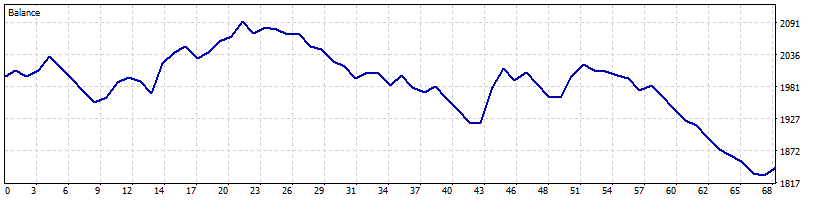
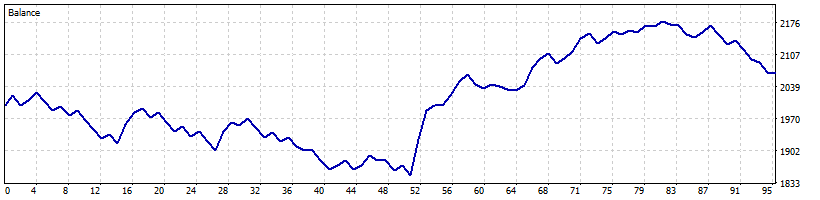
docs: refresh default real-tick report

diff --git a/reports/default-2026-real-ticks/index.html b/reports/default-2026-real-ticks/index.html
@@ -79,20 +79,20 @@ tbody tr:last-child th,tbody tr:last-child td{border-bottom:0}
 </style></head>
 <body>
 <header class="site-header"><div class="bar">
-<span class="brand">Nyao Scalper v45.0 <span class="tag">Backtest Report</span></span>
+<span class="brand">Nyao Scalper v46.0 <span class="tag">Backtest Report</span></span>
 <nav class="links" aria-label="Links"><a href="https://github.com/elrizwiraswara/nyao_scalper_mt5">GitHub &#8599;</a></nav>
 </div></header>
 <main>
 <div class="band spacer" aria-hidden="true"><div class="frame"></div></div>
-<section class="band"><div class="frame"><p class="section-title"><span class="slashes">//</span> Backtest Report</p><div class="intro"><h1>Default profile - XAUUSDm M1 vs M5, real ticks Jan-Sep 2026</h1><p class="lead"><b>Nyao Scalper v45.0</b> with <b>settings/default.set</b> on XAUUSDm M1, M5, real ticks, 2026-01 to 2026-09. Each month is a separate run starting from the same deposit.</p></div></div></section>
+<section class="band"><div class="frame"><p class="section-title"><span class="slashes">//</span> Backtest Report</p><div class="intro"><h1>Default profile - XAUUSDm M1 vs M5, real ticks Jan-Sep 2026</h1><p class="lead"><b>Nyao Scalper v46.0</b> with <b>settings/default.set</b> on XAUUSDm M1, M5, real ticks, 2026-01 to 2026-09. Each month is a separate run starting from the same deposit.</p></div></div></section>
 <div class="band spacer" aria-hidden="true"><div class="frame"></div></div>
-<section class="band"><div class="frame"><h2 class="section-title"><span class="slashes">//</span> Setup</h2><div class="cells setup"><div><span class="label">EA</span><span class="value">Nyao Scalper v45.0 (nyao_scalper.mq5)</span></div><div><span class="label">Settings</span><span class="value">settings/default.set</span></div><div><span class="label">Git commit</span><span class="value">51b4596</span></div><div><span class="label">Symbol / timeframes</span><span class="value">XAUUSDm / M1, M5</span></div><div><span class="label">Tick data</span><span class="value">Every tick based on real ticks</span></div><div><span class="label">Deposit / leverage</span><span class="value">2,000 USD / 1:500</span></div><div><span class="label">Runs</span><span class="value">One run per month, each starting from a fresh deposit</span></div><div><span class="label">Generated</span><span class="value">2026-10-13 11:12 with tools/backtest/nyao_backtest.py</span></div></div></div></section>
+<section class="band"><div class="frame"><h2 class="section-title"><span class="slashes">//</span> Setup</h2><div class="cells setup"><div><span class="label">EA</span><span class="value">Nyao Scalper v46.0 (nyao_scalper.mq5)</span></div><div><span class="label">Settings</span><span class="value">settings/default.set</span></div><div><span class="label">Git commit</span><span class="value">9f9a934</span></div><div><span class="label">Symbol / timeframes</span><span class="value">XAUUSDm / M1, M5</span></div><div><span class="label">Tick data</span><span class="value">Every tick based on real ticks</span></div><div><span class="label">Deposit / leverage</span><span class="value">2,000 USD / 1:500</span></div><div><span class="label">Runs</span><span class="value">One run per month, each starting from a fresh deposit</span></div><div><span class="label">Generated</span><span class="value">2026-10-14 03:28 with tools/backtest/nyao_backtest.py</span></div></div></div></section>
 <div class="band spacer" aria-hidden="true"><div class="frame"></div></div>
-<section class="band"><div class="frame"><h2 class="section-title"><span class="slashes">//</span> Summary</h2><div class="cells summary"><div><span class="tag">M1</span><span class="big pos">+7.5%</span><span class="muted">Total return (sum of runs)</span><dl class="metrics"><div><dt>Profitable runs</dt><dd>5 / 9</dd></div><div><dt>Best / worst run</dt><dd>+24.0% / -17.3%</dd></div><div><dt>Max drawdown</dt><dd>34.1%</dd></div><div><dt>Profit factor</dt><dd>1.01</dd></div><div><dt>Trades</dt><dd>1,555</dd></div><div><dt>Win rate</dt><dd>42%</dd></div><div><dt>Avg win / loss</dt><dd>$20.15 / -$14.58</dd></div><div><dt>Tick data</dt><dd>100% real ticks</dd></div></dl></div><div><span class="tag">M5</span><span class="big pos">+51.4%</span><span class="muted">Total return (sum of runs)</span><dl class="metrics"><div><dt>Profitable runs</dt><dd>5 / 9</dd></div><div><dt>Best / worst run</dt><dd>+34.1% / -7.8%</dd></div><div><dt>Max drawdown</dt><dd>20.3%</dd></div><div><dt>Profit factor</dt><dd>1.16</dd></div><div><dt>Trades</dt><dd>784</dd></div><div><dt>Win rate</dt><dd>43%</dd></div><div><dt>Avg win / loss</dt><dd>$21.84 / -$14.08</dd></div><div><dt>Tick data</dt><dd>100% real ticks</dd></div></dl></div></div></div></section>
+<section class="band"><div class="frame"><h2 class="section-title"><span class="slashes">//</span> Summary</h2><div class="cells summary"><div><span class="tag">M1</span><span class="big pos">+16.1%</span><span class="muted">Total return (sum of runs)</span><dl class="metrics"><div><dt>Profitable runs</dt><dd>3 / 9</dd></div><div><dt>Best / worst run</dt><dd>+37.6% / -21.3%</dd></div><div><dt>Max drawdown</dt><dd>35.3%</dd></div><div><dt>Profit factor</dt><dd>1.03</dd></div><div><dt>Trades</dt><dd>1,393</dd></div><div><dt>Win rate</dt><dd>41%</dd></div><div><dt>Avg win / loss</dt><dd>$21.32 / -$14.37</dd></div><div><dt>Tick data</dt><dd>100% real ticks</dd></div></dl></div><div><span class="tag">M5</span><span class="big pos">+82.6%</span><span class="muted">Total return (sum of runs)</span><dl class="metrics"><div><dt>Profitable runs</dt><dd>6 / 9</dd></div><div><dt>Best / worst run</dt><dd>+39.5% / -3.7%</dd></div><div><dt>Max drawdown</dt><dd>20.0%</dd></div><div><dt>Profit factor</dt><dd>1.20</dd></div><div><dt>Trades</dt><dd>1,107</dd></div><div><dt>Win rate</dt><dd>44%</dd></div><div><dt>Avg win / loss</dt><dd>$20.73 / -$13.62</dd></div><div><dt>Tick data</dt><dd>100% real ticks</dd></div></dl></div></div></div></section>
 <div class="band spacer" aria-hidden="true"><div class="frame"></div></div>
-<section class="band"><div class="frame"><h2 class="section-title"><span class="slashes">//</span> Results per Run</h2><div class="table-wrap"><table><thead><tr><th>Run</th><th>M1</th><th>M5</th></tr></thead><tbody><tr><th>2026-01</th><td><span class="ret pos">+24.0%</span><span class="sub">DD 12% · 180 trades</span></td><td><span class="ret pos">+34.1%</span><span class="sub">DD 6% · 109 trades</span></td></tr><tr><th>2026-02</th><td><span class="ret neg">-17.3%</span><span class="sub">DD 34% · 226 trades</span></td><td><span class="ret neg">-6.9%</span><span class="sub">DD 20% · 97 trades</span></td></tr><tr><th>2026-03</th><td><span class="ret pos">+2.0%</span><span class="sub">DD 21% · 281 trades</span></td><td><span class="ret pos">+9.5%</span><span class="sub">DD 14% · 114 trades</span></td></tr><tr><th>2026-04</th><td><span class="ret neg">-16.1%</span><span class="sub">DD 26% · 184 trades</span></td><td><span class="ret neg">-4.8%</span><span class="sub">DD 14% · 77 trades</span></td></tr><tr><th>2026-05</th><td><span class="ret pos">+8.6%</span><span class="sub">DD 13% · 127 trades</span></td><td><span class="ret pos">+8.7%</span><span class="sub">DD 7% · 75 trades</span></td></tr><tr><th>2026-06</th><td><span class="ret pos">+19.2%</span><span class="sub">DD 17% · 188 trades</span></td><td><span class="ret pos">+13.2%</span><span class="sub">DD 12% · 116 trades</span></td></tr><tr><th>2026-07</th><td><span class="ret neg">-3.8%</span><span class="sub">DD 15% · 124 trades</span></td><td><span class="ret pos">+9.5%</span><span class="sub">DD 6% · 74 trades</span></td></tr><tr><th>2026-08</th><td><span class="ret pos">+0.5%</span><span class="sub">DD 13% · 137 trades</span></td><td><span class="ret neg">-7.8%</span><span class="sub">DD 15% · 68 trades</span></td></tr><tr><th>2026-09</th><td><span class="ret neg">-9.5%</span><span class="sub">DD 21% · 108 trades</span></td><td><span class="ret neg">-4.0%</span><span class="sub">DD 11% · 54 trades</span></td></tr></tbody></table></div></div></section>
+<section class="band"><div class="frame"><h2 class="section-title"><span class="slashes">//</span> Results per Run</h2><div class="table-wrap"><table><thead><tr><th>Run</th><th>M1</th><th>M5</th></tr></thead><tbody><tr><th>2026-01</th><td><span class="ret pos">+37.6%</span><span class="sub">DD 8% · 172 trades</span></td><td><span class="ret pos">+39.5%</span><span class="sub">DD 9% · 165 trades</span></td></tr><tr><th>2026-02</th><td><span class="ret neg">-21.3%</span><span class="sub">DD 35% · 255 trades</span></td><td><span class="ret pos">+1.4%</span><span class="sub">DD 19% · 202 trades</span></td></tr><tr><th>2026-03</th><td><span class="ret pos">+9.6%</span><span class="sub">DD 17% · 280 trades</span></td><td><span class="ret pos">+9.9%</span><span class="sub">DD 19% · 198 trades</span></td></tr><tr><th>2026-04</th><td><span class="ret neg">-14.3%</span><span class="sub">DD 28% · 127 trades</span></td><td><span class="ret neg">-2.8%</span><span class="sub">DD 20% · 84 trades</span></td></tr><tr><th>2026-05</th><td><span class="ret neg">-6.3%</span><span class="sub">DD 17% · 111 trades</span></td><td><span class="ret pos">+1.5%</span><span class="sub">DD 13% · 89 trades</span></td></tr><tr><th>2026-06</th><td><span class="ret pos">+30.9%</span><span class="sub">DD 9% · 168 trades</span></td><td><span class="ret pos">+35.5%</span><span class="sub">DD 9% · 152 trades</span></td></tr><tr><th>2026-07</th><td><span class="ret neg">-4.5%</span><span class="sub">DD 17% · 93 trades</span></td><td><span class="ret neg">-3.7%</span><span class="sub">DD 10% · 66 trades</span></td></tr><tr><th>2026-08</th><td><span class="ret neg">-5.6%</span><span class="sub">DD 16% · 115 trades</span></td><td><span class="ret pos">+3.4%</span><span class="sub">DD 11% · 95 trades</span></td></tr><tr><th>2026-09</th><td><span class="ret neg">-9.8%</span><span class="sub">DD 18% · 72 trades</span></td><td><span class="ret neg">-2.2%</span><span class="sub">DD 12% · 56 trades</span></td></tr></tbody></table></div></div></section>
 <div class="band spacer" aria-hidden="true"><div class="frame"></div></div>
-<section class="band"><div class="frame"><h2 class="section-title"><span class="slashes">//</span> Balance Graphs</h2><h3 class="tf">M1</h3><div class="cells graphs"><figure><figcaption><b>2026-01</b><span class="pos">+24.0%</span><span class="faint">DD 12% · 180 trades</span></figcaption><img src="graphs/M1_2026-01.png" alt="M1 2026-01 balance graph" loading="lazy"></figure><figure><figcaption><b>2026-02</b><span class="neg">-17.3%</span><span class="faint">DD 34% · 226 trades</span></figcaption><img src="graphs/M1_2026-02.png" alt="M1 2026-02 balance graph" loading="lazy"></figure><figure><figcaption><b>2026-03</b><span class="pos">+2.0%</span><span class="faint">DD 21% · 281 trades</span></figcaption><img src="graphs/M1_2026-03.png" alt="M1 2026-03 balance graph" loading="lazy"></figure><figure><figcaption><b>2026-04</b><span class="neg">-16.1%</span><span class="faint">DD 26% · 184 trades</span></figcaption><img src="graphs/M1_2026-04.png" alt="M1 2026-04 balance graph" loading="lazy"></figure><figure><figcaption><b>2026-05</b><span class="pos">+8.6%</span><span class="faint">DD 13% · 127 trades</span></figcaption><img src="graphs/M1_2026-05.png" alt="M1 2026-05 balance graph" loading="lazy"></figure><figure><figcaption><b>2026-06</b><span class="pos">+19.2%</span><span class="faint">DD 17% · 188 trades</span></figcaption><img src="graphs/M1_2026-06.png" alt="M1 2026-06 balance graph" loading="lazy"></figure><figure><figcaption><b>2026-07</b><span class="neg">-3.8%</span><span class="faint">DD 15% · 124 trades</span></figcaption><img src="graphs/M1_2026-07.png" alt="M1 2026-07 balance graph" loading="lazy"></figure><figure><figcaption><b>2026-08</b><span class="pos">+0.5%</span><span class="faint">DD 13% · 137 trades</span></figcaption><img src="graphs/M1_2026-08.png" alt="M1 2026-08 balance graph" loading="lazy"></figure><figure><figcaption><b>2026-09</b><span class="neg">-9.5%</span><span class="faint">DD 21% · 108 trades</span></figcaption><img src="graphs/M1_2026-09.png" alt="M1 2026-09 balance graph" loading="lazy"></figure></div><h3 class="tf">M5</h3><div class="cells graphs"><figure><figcaption><b>2026-01</b><span class="pos">+34.1%</span><span class="faint">DD 6% · 109 trades</span></figcaption><img src="graphs/M5_2026-01.png" alt="M5 2026-01 balance graph" loading="lazy"></figure><figure><figcaption><b>2026-02</b><span class="neg">-6.9%</span><span class="faint">DD 20% · 97 trades</span></figcaption><img src="graphs/M5_2026-02.png" alt="M5 2026-02 balance graph" loading="lazy"></figure><figure><figcaption><b>2026-03</b><span class="pos">+9.5%</span><span class="faint">DD 14% · 114 trades</span></figcaption><img src="graphs/M5_2026-03.png" alt="M5 2026-03 balance graph" loading="lazy"></figure><figure><figcaption><b>2026-04</b><span class="neg">-4.8%</span><span class="faint">DD 14% · 77 trades</span></figcaption><img src="graphs/M5_2026-04.png" alt="M5 2026-04 balance graph" loading="lazy"></figure><figure><figcaption><b>2026-05</b><span class="pos">+8.7%</span><span class="faint">DD 7% · 75 trades</span></figcaption><img src="graphs/M5_2026-05.png" alt="M5 2026-05 balance graph" loading="lazy"></figure><figure><figcaption><b>2026-06</b><span class="pos">+13.2%</span><span class="faint">DD 12% · 116 trades</span></figcaption><img src="graphs/M5_2026-06.png" alt="M5 2026-06 balance graph" loading="lazy"></figure><figure><figcaption><b>2026-07</b><span class="pos">+9.5%</span><span class="faint">DD 6% · 74 trades</span></figcaption><img src="graphs/M5_2026-07.png" alt="M5 2026-07 balance graph" loading="lazy"></figure><figure><figcaption><b>2026-08</b><span class="neg">-7.8%</span><span class="faint">DD 15% · 68 trades</span></figcaption><img src="graphs/M5_2026-08.png" alt="M5 2026-08 balance graph" loading="lazy"></figure><figure><figcaption><b>2026-09</b><span class="neg">-4.0%</span><span class="faint">DD 11% · 54 trades</span></figcaption><img src="graphs/M5_2026-09.png" alt="M5 2026-09 balance graph" loading="lazy"></figure></div></div></section>
+<section class="band"><div class="frame"><h2 class="section-title"><span class="slashes">//</span> Balance Graphs</h2><h3 class="tf">M1</h3><div class="cells graphs"><figure><figcaption><b>2026-01</b><span class="pos">+37.6%</span><span class="faint">DD 8% · 172 trades</span></figcaption><img src="graphs/M1_2026-01.png" alt="M1 2026-01 balance graph" loading="lazy"></figure><figure><figcaption><b>2026-02</b><span class="neg">-21.3%</span><span class="faint">DD 35% · 255 trades</span></figcaption><img src="graphs/M1_2026-02.png" alt="M1 2026-02 balance graph" loading="lazy"></figure><figure><figcaption><b>2026-03</b><span class="pos">+9.6%</span><span class="faint">DD 17% · 280 trades</span></figcaption><img src="graphs/M1_2026-03.png" alt="M1 2026-03 balance graph" loading="lazy"></figure><figure><figcaption><b>2026-04</b><span class="neg">-14.3%</span><span class="faint">DD 28% · 127 trades</span></figcaption><img src="graphs/M1_2026-04.png" alt="M1 2026-04 balance graph" loading="lazy"></figure><figure><figcaption><b>2026-05</b><span class="neg">-6.3%</span><span class="faint">DD 17% · 111 trades</span></figcaption><img src="graphs/M1_2026-05.png" alt="M1 2026-05 balance graph" loading="lazy"></figure><figure><figcaption><b>2026-06</b><span class="pos">+30.9%</span><span class="faint">DD 9% · 168 trades</span></figcaption><img src="graphs/M1_2026-06.png" alt="M1 2026-06 balance graph" loading="lazy"></figure><figure><figcaption><b>2026-07</b><span class="neg">-4.5%</span><span class="faint">DD 17% · 93 trades</span></figcaption><img src="graphs/M1_2026-07.png" alt="M1 2026-07 balance graph" loading="lazy"></figure><figure><figcaption><b>2026-08</b><span class="neg">-5.6%</span><span class="faint">DD 16% · 115 trades</span></figcaption><img src="graphs/M1_2026-08.png" alt="M1 2026-08 balance graph" loading="lazy"></figure><figure><figcaption><b>2026-09</b><span class="neg">-9.8%</span><span class="faint">DD 18% · 72 trades</span></figcaption><img src="graphs/M1_2026-09.png" alt="M1 2026-09 balance graph" loading="lazy"></figure></div><h3 class="tf">M5</h3><div class="cells graphs"><figure><figcaption><b>2026-01</b><span class="pos">+39.5%</span><span class="faint">DD 9% · 165 trades</span></figcaption><img src="graphs/M5_2026-01.png" alt="M5 2026-01 balance graph" loading="lazy"></figure><figure><figcaption><b>2026-02</b><span class="pos">+1.4%</span><span class="faint">DD 19% · 202 trades</span></figcaption><img src="graphs/M5_2026-02.png" alt="M5 2026-02 balance graph" loading="lazy"></figure><figure><figcaption><b>2026-03</b><span class="pos">+9.9%</span><span class="faint">DD 19% · 198 trades</span></figcaption><img src="graphs/M5_2026-03.png" alt="M5 2026-03 balance graph" loading="lazy"></figure><figure><figcaption><b>2026-04</b><span class="neg">-2.8%</span><span class="faint">DD 20% · 84 trades</span></figcaption><img src="graphs/M5_2026-04.png" alt="M5 2026-04 balance graph" loading="lazy"></figure><figure><figcaption><b>2026-05</b><span class="pos">+1.5%</span><span class="faint">DD 13% · 89 trades</span></figcaption><img src="graphs/M5_2026-05.png" alt="M5 2026-05 balance graph" loading="lazy"></figure><figure><figcaption><b>2026-06</b><span class="pos">+35.5%</span><span class="faint">DD 9% · 152 trades</span></figcaption><img src="graphs/M5_2026-06.png" alt="M5 2026-06 balance graph" loading="lazy"></figure><figure><figcaption><b>2026-07</b><span class="neg">-3.7%</span><span class="faint">DD 10% · 66 trades</span></figcaption><img src="graphs/M5_2026-07.png" alt="M5 2026-07 balance graph" loading="lazy"></figure><figure><figcaption><b>2026-08</b><span class="pos">+3.4%</span><span class="faint">DD 11% · 95 trades</span></figcaption><img src="graphs/M5_2026-08.png" alt="M5 2026-08 balance graph" loading="lazy"></figure><figure><figcaption><b>2026-09</b><span class="neg">-2.2%</span><span class="faint">DD 12% · 56 trades</span></figcaption><img src="graphs/M5_2026-09.png" alt="M5 2026-09 balance graph" loading="lazy"></figure></div></div></section>
 <div class="band spacer" aria-hidden="true"><div class="frame"></div></div>
 <section class="band"><div class="frame"><h2 class="section-title"><span class="slashes">//</span> Notes</h2><div class="note"><p>Total return is the sum of the monthly returns: each month starts from the same deposit, so it is not compounded.</p><p>Backtests are not a guarantee of future results. Trading Forex and CFDs involves significant risk; forward-test on a demo account before using real money.</p></div></div></section>
 <div class="band spacer" aria-hidden="true"><div class="frame"></div></div>

diff --git a/reports/default-2026-real-ticks/summary.md b/reports/default-2026-real-ticks/summary.md
@@ -2,14 +2,14 @@
 
 | Setting | Value |
 |---|---|
-| EA | Nyao Scalper v45.0 (`nyao_scalper.mq5`) |
+| EA | Nyao Scalper v46.0 (`nyao_scalper.mq5`) |
 | Settings | `settings/default.set` |
-| Git commit | 51b4596 |
+| Git commit | 9f9a934 |
 | Symbol / timeframes | XAUUSDm / M1, M5 |
 | Tick data | Every tick based on real ticks |
 | Deposit / leverage | 2,000 USD / 1:500 |
 | Runs | One run per month, each starting from a fresh deposit |
-| Generated | 2026-10-13 11:12 with `tools/backtest/nyao_backtest.py` |
+| Generated | 2026-10-14 03:28 with `tools/backtest/nyao_backtest.py` |
 
 ## Summary
 
@@ -17,97 +17,97 @@ Total return is the sum of the monthly returns (each month starts from the same 
 
 | Timeframe | Total return | Profitable | Best / worst run | Max drawdown | Trades | Win rate | Avg win / loss | Profit factor | Tick data |
 |---|---|---|---|---|---|---|---|---|---|
-| M1 | +7.5% | 5/9 | +24.0% / -17.3% | 34.1% | 1,555 | 42% | $20.15 / -$14.58 | 1.01 | 100% real ticks |
-| M5 | +51.4% | 5/9 | +34.1% / -7.8% | 20.3% | 784 | 43% | $21.84 / -$14.08 | 1.16 | 100% real ticks |
+| M1 | +16.1% | 3/9 | +37.6% / -21.3% | 35.3% | 1,393 | 41% | $21.32 / -$14.37 | 1.03 | 100% real ticks |
+| M5 | +82.6% | 6/9 | +39.5% / -3.7% | 20.0% | 1,107 | 44% | $20.73 / -$13.62 | 1.20 | 100% real ticks |
 
 ## Results per run
 
 | Run | M1 | M5 |
 |---|---|---|
-| 2026-01 | +24.0% (DD 12%, 180 trades) | +34.1% (DD 6%, 109 trades) |
-| 2026-02 | -17.3% (DD 34%, 226 trades) | -6.9% (DD 20%, 97 trades) |
-| 2026-03 | +2.0% (DD 21%, 281 trades) | +9.5% (DD 14%, 114 trades) |
-| 2026-04 | -16.1% (DD 26%, 184 trades) | -4.8% (DD 14%, 77 trades) |
-| 2026-05 | +8.6% (DD 13%, 127 trades) | +8.7% (DD 7%, 75 trades) |
-| 2026-06 | +19.2% (DD 17%, 188 trades) | +13.2% (DD 12%, 116 trades) |
-| 2026-07 | -3.8% (DD 15%, 124 trades) | +9.5% (DD 6%, 74 trades) |
-| 2026-08 | +0.5% (DD 13%, 137 trades) | -7.8% (DD 15%, 68 trades) |
-| 2026-09 | -9.5% (DD 21%, 108 trades) | -4.0% (DD 11%, 54 trades) |
+| 2026-01 | +37.6% (DD 8%, 172 trades) | +39.5% (DD 9%, 165 trades) |
+| 2026-02 | -21.3% (DD 35%, 255 trades) | +1.4% (DD 19%, 202 trades) |
+| 2026-03 | +9.6% (DD 17%, 280 trades) | +9.9% (DD 19%, 198 trades) |
+| 2026-04 | -14.3% (DD 28%, 127 trades) | -2.8% (DD 20%, 84 trades) |
+| 2026-05 | -6.3% (DD 17%, 111 trades) | +1.5% (DD 13%, 89 trades) |
+| 2026-06 | +30.9% (DD 9%, 168 trades) | +35.5% (DD 9%, 152 trades) |
+| 2026-07 | -4.5% (DD 17%, 93 trades) | -3.7% (DD 10%, 66 trades) |
+| 2026-08 | -5.6% (DD 16%, 115 trades) | +3.4% (DD 11%, 95 trades) |
+| 2026-09 | -9.8% (DD 18%, 72 trades) | -2.2% (DD 12%, 56 trades) |
 
 ## Balance graphs
 
 ### M1
 
-**2026-01** +24.0%
+**2026-01** +37.6%
 
 ![M1 2026-01](graphs/M1_2026-01.png)
 
-**2026-02** -17.3%
+**2026-02** -21.3%
 
 ![M1 2026-02](graphs/M1_2026-02.png)
 
-**2026-03** +2.0%
+**2026-03** +9.6%
 
 ![M1 2026-03](graphs/M1_2026-03.png)
 
-**2026-04** -16.1%
+**2026-04** -14.3%
 
 ![M1 2026-04](graphs/M1_2026-04.png)
 
-**2026-05** +8.6%
+**2026-05** -6.3%
 
 ![M1 2026-05](graphs/M1_2026-05.png)
 
-**2026-06** +19.2%
+**2026-06** +30.9%
 
 ![M1 2026-06](graphs/M1_2026-06.png)
 
-**2026-07** -3.8%
+**2026-07** -4.5%
 
 ![M1 2026-07](graphs/M1_2026-07.png)
 
-**2026-08** +0.5%
+**2026-08** -5.6%
 
 ![M1 2026-08](graphs/M1_2026-08.png)
 
-**2026-09** -9.5%
+**2026-09** -9.8%
 
 ![M1 2026-09](graphs/M1_2026-09.png)
 
 ### M5
 
-**2026-01** +34.1%
+**2026-01** +39.5%
 
 ![M5 2026-01](graphs/M5_2026-01.png)
 
-**2026-02** -6.9%
+**2026-02** +1.4%
 
 ![M5 2026-02](graphs/M5_2026-02.png)
 
-**2026-03** +9.5%
+**2026-03** +9.9%
 
 ![M5 2026-03](graphs/M5_2026-03.png)
 
-**2026-04** -4.8%
+**2026-04** -2.8%
 
 ![M5 2026-04](graphs/M5_2026-04.png)
 
-**2026-05** +8.7%
+**2026-05** +1.5%
 
 ![M5 2026-05](graphs/M5_2026-05.png)
 
-**2026-06** +13.2%
+**2026-06** +35.5%
 
 ![M5 2026-06](graphs/M5_2026-06.png)
 
-**2026-07** +9.5%
+**2026-07** -3.7%
 
 ![M5 2026-07](graphs/M5_2026-07.png)
 
-**2026-08** -7.8%
+**2026-08** +3.4%
 
 ![M5 2026-08](graphs/M5_2026-08.png)
 
-**2026-09** -4.0%
+**2026-09** -2.2%
 
 ![M5 2026-09](graphs/M5_2026-09.png)
